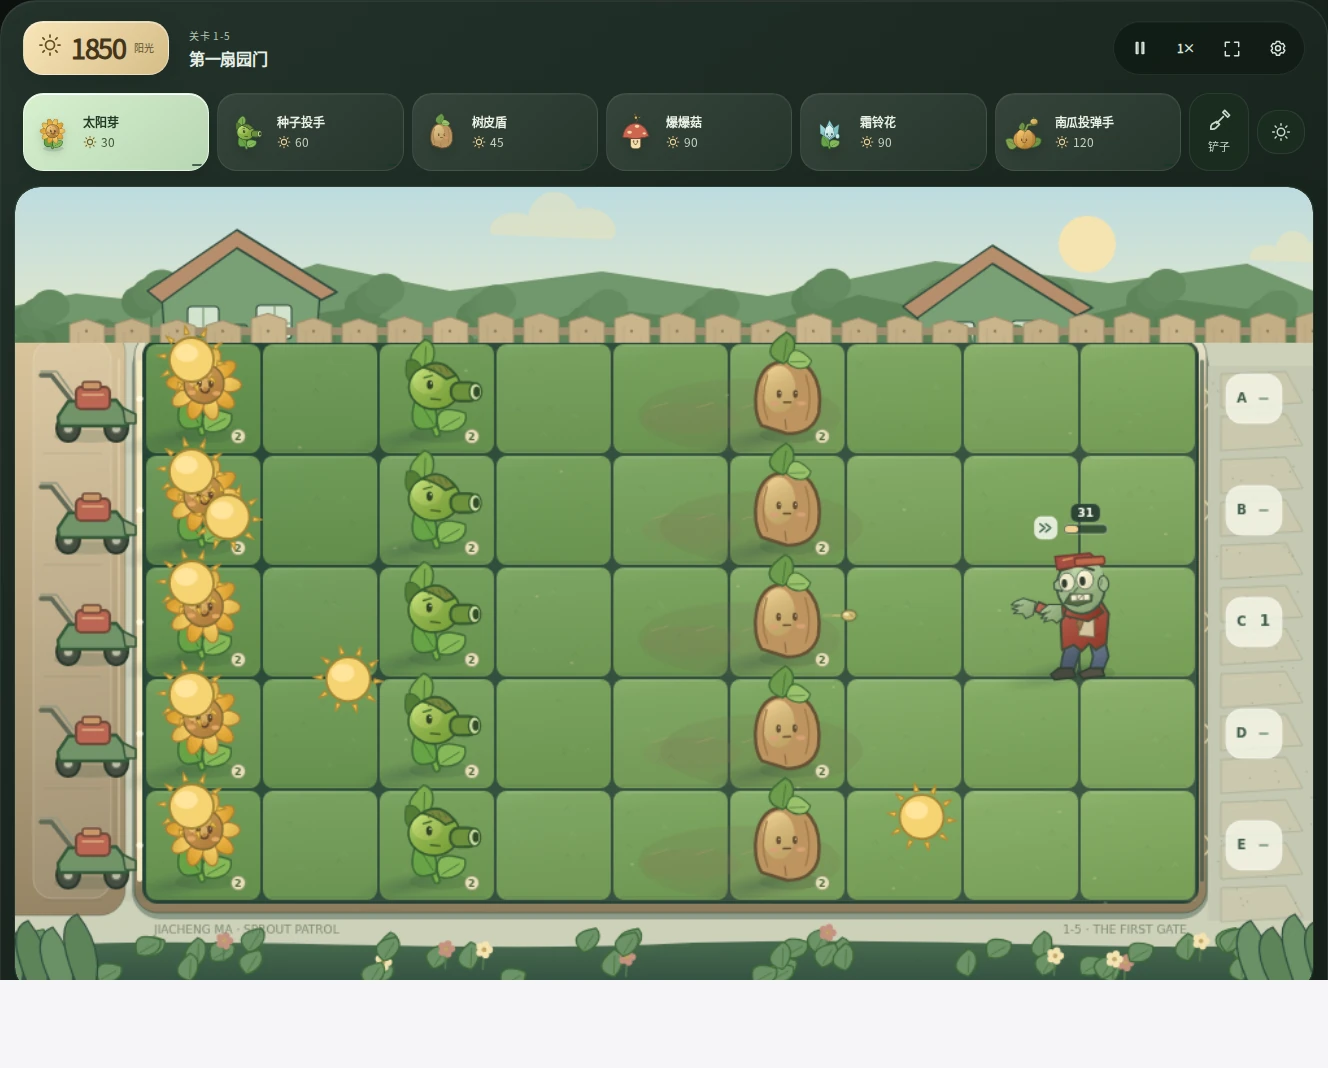
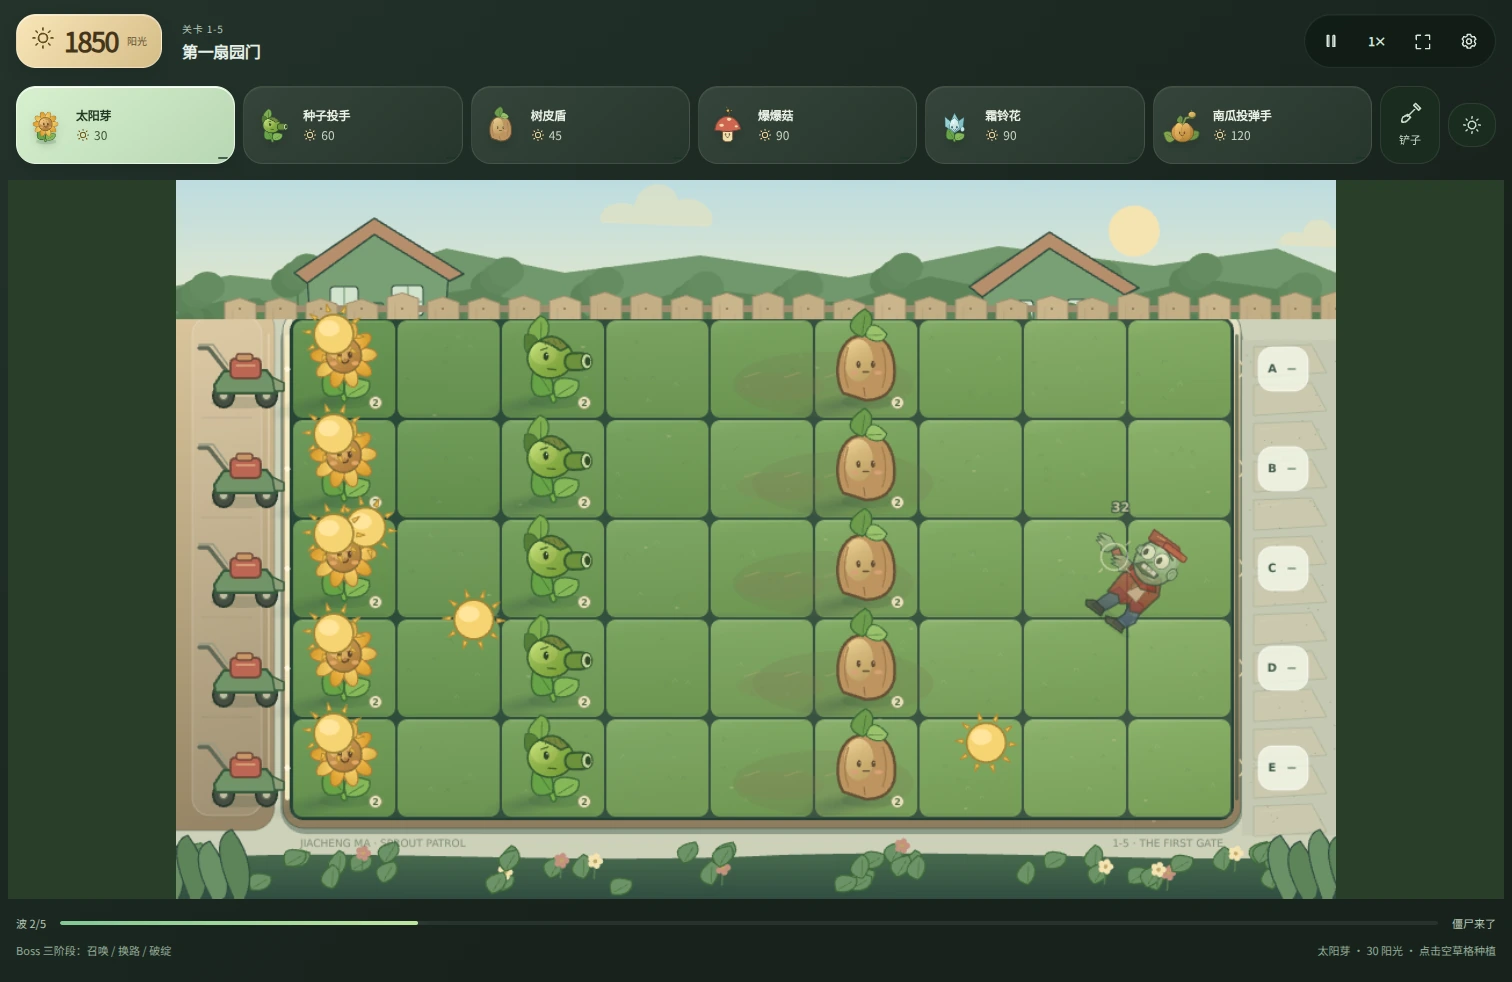
优化游戏的 MacBook 展示并移除截图白边

diff --git a/portfolio-source/device-frame.css b/portfolio-source/device-frame.css
@@ -4,14 +4,26 @@
 .device-frame__screen{display:block;overflow:hidden;border-radius:clamp(5px,1vw,13px);background:#111214;line-height:0}
 .device-frame .device-frame__screen>img,.device-frame .device-frame__screen>video{display:block;width:100%;height:auto;max-width:100%;aspect-ratio:auto;object-fit:contain;border:0;border-radius:0;transform:none}
 .device-frame__camera{position:absolute;z-index:1;top:calc(var(--device-bezel)/2 + 1px);left:50%;width:4px;height:4px;transform:translateX(-50%);border-radius:50%;background:#141c25;box-shadow:inset 0 0 0 1px #4c56635c,0 0 0 1px #0008}
-.device-frame--mac{padding-inline:3%}
-.device-frame--mac .device-frame__body{border-radius:clamp(10px,1.65vw,22px) clamp(10px,1.65vw,22px) 5px 5px;background:linear-gradient(155deg,#34363a,#151618 38%,#202226);border-color:#8a9098;box-shadow:0 14px 28px #141c2814,inset 0 1px 0 #ffffff50}
-.device-frame__base{position:relative;display:block;width:106.4%;height:clamp(7px,1.25vw,15px);margin-left:-3.2%;margin-top:-1px;border-radius:1px 1px 44% 44%/1px 1px 80% 80%;background:linear-gradient(#dce0e4 0%,#b9c0c7 30%,#9ba4af 70%,#c4cbd1);box-shadow:0 8px 12px #141c2810}
-.device-frame__base::before{content:"";position:absolute;top:0;left:44%;width:12%;height:33%;background:linear-gradient(#939ca5,#d7dce0);border-radius:0 0 5px 5px}
+/* A quiet three-quarter product composition; the rear lid carries the mark. */
+.device-frame--mac{--device-bezel:clamp(3px,.45vw,6px);padding:8% 3% 4% 1%;perspective:1400px;isolation:isolate}
+.mac-front{position:relative;display:block;width:90%;z-index:2;transform:perspective(1400px) rotateY(-12deg) rotateX(2deg);transform-origin:50% 80%}
+.device-frame--mac .device-frame__body{padding:calc(var(--device-bezel) + 3px) var(--device-bezel) var(--device-bezel);border-radius:clamp(8px,1.15vw,15px) clamp(8px,1.15vw,15px) 3px 3px;background:#090a0b;border:1px solid #65676a;box-shadow:1px 0 0 #9b9da1,3px 1px 0 #252629,0 9px 20px #11182716,inset 0 1px 0 #c4c7ca55}
+.device-frame--mac .device-frame__screen{border-radius:clamp(5px,.8vw,10px) clamp(5px,.8vw,10px) 2px 2px}
+.device-frame--mac .device-frame__camera{top:3px;width:clamp(20px,3.2vw,42px);height:clamp(4px,.6vw,8px);border-radius:0 0 4px 4px;background:#090a0b;box-shadow:none}
+.device-frame--mac .device-frame__camera::after{content:"";position:absolute;left:50%;top:1px;width:2px;height:2px;border-radius:50%;background:#263447}
+.mac-lid{position:absolute;display:block;z-index:0;top:8%;right:1%;width:39%;height:77%;border-radius:clamp(8px,1.2vw,16px);border:1px solid #686b6e;background:linear-gradient(115deg,#303236,#5a5d62 48%,#35373b 85%,#76797d);transform:perspective(1000px) rotateY(31deg) rotateZ(2deg);box-shadow:2px 2px 0 #25262a,4px 4px 0 #9b9da155,0 16px 26px #11182712;overflow:hidden}
+.mac-lid__mark{position:absolute;right:5%;top:43%;width:14%;height:16%;color:#181a1e;filter:drop-shadow(0 1px 0 #ffffff14)}
+.mac-deck{position:relative;display:block;height:clamp(15px,3.8vw,44px);margin:-1px -3.5% 0;clip-path:polygon(3.3% 0,96.7% 0,100% 100%,0 100%);background:linear-gradient(150deg,#8a8e94,#4f5359 42%,#777c84 80%,#a0a4a9);border-top:1px solid #aaaeb444}
+.mac-keyboard{position:absolute;left:14%;right:14%;top:9%;height:47%;border-radius:1px;background:repeating-linear-gradient(90deg,transparent 0 6.5%,#777c84 6.5% 7.3%),repeating-linear-gradient(0deg,#181a1e 0 23%,#6a7078 23% 28%);transform:perspective(100px) rotateX(12deg);opacity:.85}
+.mac-trackpad{position:absolute;top:64%;left:37%;width:26%;height:28%;border:1px solid #33363b55;border-radius:2px;background:#82878e44}
+.device-frame__base{position:relative;display:block;width:107%;height:clamp(3px,.65vw,7px);margin-left:-3.5%;margin-top:-1px;border-radius:1px 1px 35% 35%/1px 1px 90% 90%;background:linear-gradient(#b1b5bb,#777d85 35%,#464a51 85%,#a5a9ae);box-shadow:0 9px 14px #141c2820}
+.device-frame__base::before{content:"";position:absolute;top:0;left:44%;width:12%;height:35%;background:#4c5159;border-radius:0 0 5px 5px}
 .device-frame--tablet .device-frame__body{padding:calc(var(--device-bezel) + 6px) var(--device-bezel);background:linear-gradient(145deg,#3c3f43,#161719 32%,#202226 80%,#44484d);border-color:#727983;border-radius:clamp(15px,2.7vw,32px);box-shadow:0 18px 40px #141c2820,inset 0 1px 0 #ffffff45}
 .device-frame--tablet .device-frame__screen{border-radius:clamp(8px,1.8vw,21px)}
 .device-frame--tablet::before,.device-frame--tablet::after{content:"";position:absolute;right:-1px;width:2px;background:#80868e;border-radius:2px;z-index:-1}
 .device-frame--tablet::before{top:16%;height:8%}.device-frame--tablet::after{top:26%;height:8%}
 .device-preview,.detail-page .device-preview,.device-preview:hover,.detail-page .device-preview:hover{display:block;overflow:visible;border:0;border-radius:0;background:transparent;box-shadow:none;transform:none}
-@media(max-width:760px){.device-frame{--device-bezel:6px}.device-frame__camera{width:3px;height:3px}.device-frame__body{box-shadow:0 8px 20px #141c2818}.device-frame--tablet .device-frame__body{box-shadow:0 10px 24px #141c281c}}
+@media(max-width:760px){.device-frame{--device-bezel:6px}.device-frame--tablet .device-frame__camera{width:3px;height:3px}.device-frame__body{box-shadow:0 8px 20px #141c2818}.device-frame--tablet .device-frame__body{box-shadow:0 10px 24px #141c281c}}
 @media print{.device-frame__body,.device-frame__base{box-shadow:none}}
+
+@media(max-width:760px){.device-frame--mac{--device-bezel:3px;padding-right:3%;padding-bottom:4%}.mac-front{transform:perspective(1000px) rotateY(-8deg) rotateX(1deg)}.mac-deck{height:19px}.device-frame--mac .device-frame__body{box-shadow:2px 0 0 #45484d,0 7px 16px #141c2812}}

diff --git a/portfolio-source/game-overrides/presentation.css b/portfolio-source/game-overrides/presentation.css
@@ -291,3 +291,7 @@ body[data-page="index"] #squad-content>p,body[data-page="index"] #squad-dialog .
  body[data-page="index"] .loader .overlay-card{background:#14231a}
  body[data-page="index"] dialog::backdrop,body[data-page="index"] #overlay:not([hidden]){backdrop-filter:none;-webkit-backdrop-filter:none}
 }
+
+/* Keep presentation rules from overriding the viewport fullscreen layout. */
+body[data-page="index"].game-fullscreen .playfield{position:fixed;inset:0;width:100%;height:100dvh;margin:0;padding:8px;border:0;border-radius:0;box-shadow:none}
+body[data-page="index"].game-fullscreen .garden-wrap{border-radius:0;box-shadow:none}

diff --git a/portfolio-source/device_frames.py b/portfolio-source/device_frames.py
@@ -4,11 +4,22 @@
 def device_frame(content, kind='mac'):
     if kind not in ('mac', 'tablet'):
         raise ValueError('Unknown device surround')
+    if kind == 'mac':
+        return (
+            '<span class="device-frame device-frame--mac" data-device-frame="mac">'
+            '<span class="mac-lid" aria-hidden="true"><svg class="mac-lid__mark" viewBox="0 0 24 28" fill="currentColor">'
+            '<path d="M16.5 4.5C18 2.8 17.8.8 17.8.2c-1.6.1-3.6 1.1-4.6 2.3-1 1.1-1.8 2.8-1.6 4.3 1.8.1 3.6-.9 4.9-2.3ZM20 14.8c0-3.2 2.6-4.7 2.7-4.8-1.5-2.2-3.8-2.5-4.6-2.5-2-.2-3.9 1.2-4.9 1.2-1 0-2.6-1.2-4.3-1.1-2.2 0-4.3 1.3-5.4 3.2-2.3 4-.6 10 1.6 13.2 1.1 1.6 2.3 3.3 4 3.2 1.6-.1 2.3-1 4.3-1s2.6 1 4.3 1c1.8 0 2.9-1.6 3.9-3.2 1.3-1.8 1.8-3.6 1.8-3.7-.1 0-3.4-1.3-3.4-5.5Z"/>'
+            '</svg></span>'
+            '<span class="mac-front"><span class="device-frame__body">'
+            '<span class="device-frame__camera" aria-hidden="true"></span>'
+            '<span class="device-frame__screen">' + content + '</span></span>'
+            '<span class="mac-deck" aria-hidden="true"><span class="mac-keyboard"></span><span class="mac-trackpad"></span></span>'
+            '<span class="device-frame__base" aria-hidden="true"></span></span></span>'
+        )
     return (
         f'<span class="device-frame device-frame--{kind}" data-device-frame="{kind}">'
         '<span class="device-frame__body">'
         '<span class="device-frame__camera" aria-hidden="true"></span>'
         '<span class="device-frame__screen">' + content + '</span></span>'
-        + ('<span class="device-frame__base" aria-hidden="true"></span>' if kind == 'mac' else '')
         + '</span>'
     )

diff --git a/portfolio-source/prepare_release.py b/portfolio-source/prepare_release.py
@@ -12,7 +12,7 @@ import zipfile
 REPO=Path(__file__).resolve().parent.parent
 SOURCE=REPO/'portfolio-source'
 SITE=SOURCE/'site'
-REVISION='2026-10-20-current-portfolio-only'
+REVISION='2026-10-21-macbook-preview'
 
 def run(*args):
     subprocess.run(args,cwd=REPO,check=True)
